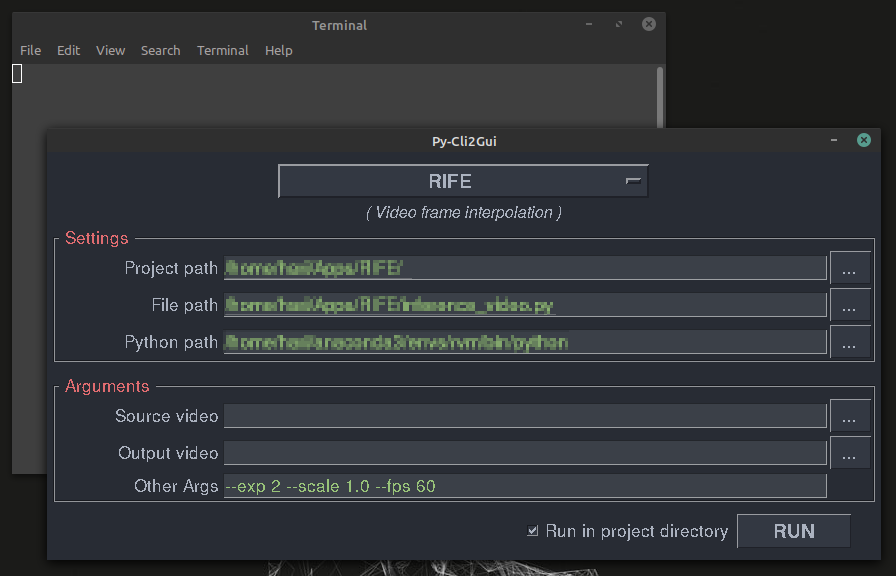
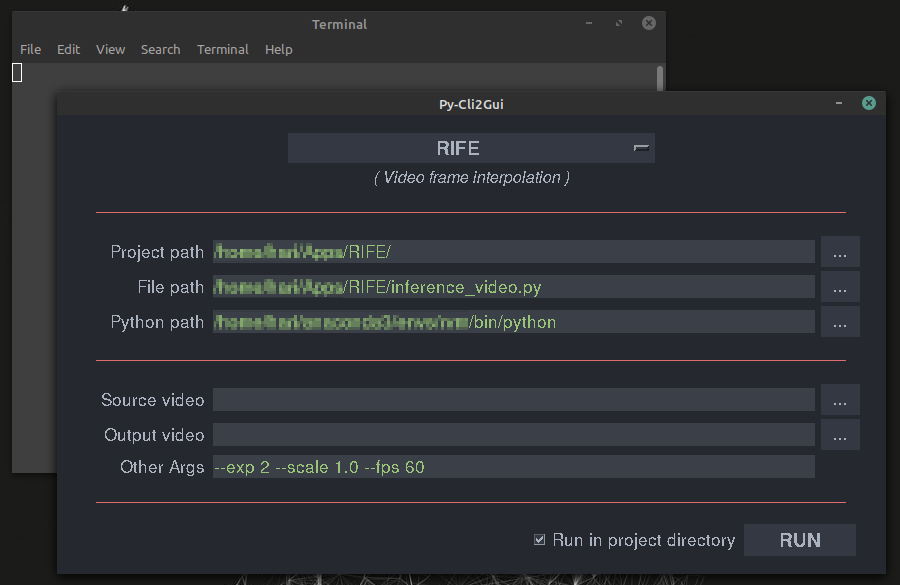
gui update
* removed widget border to get flat look
* added label instead of label frame
* add dark and light theme

diff --git a/source/main.py b/source/main.py
@@ -6,18 +6,31 @@ import tkinter as tk
 from tkinter import filedialog, font as tkFont
 
 
-class Theme:
+class DARK:
+    a1 = "#25292f"
+    a2 = "#333842"
+    a3 = "#3b4048"
+    a4 = "#e79d28"
+    b1 = "#e06c70"
+    b2 = "#abb2bf"
+    b3 = "#469aef"
+    b4 = "#98c379"
+
+class LIGHT:
+    a1 = "#fffefe"
+    a2 = "#c6cddf"
+    a3 = "#ebedf2"
+    a4 = "#b630f4"
+    b1 = "#9199f9"
+    b2 = "#74839a"
+    b3 = "#a4a8de"
+    b4 = "#8f8e95"
+
+
+class Theme(DARK):
     def __init__(self):
-        self.a1 = "#282c34"
-        self.a2 = "#333842"
-        self.a3 = "#3b4048"
-        self.a4 = "#e79d28"
-        self.b1 = "#e06c70"
-        self.b2 = "#abb2bf"
-        self.b3 = "#469aef"
-        self.b4 = "#98c379"
         self.fieldWidth = 60
-        self.labelWidth = 16
+        self.labelWidth = 12
         self.runButtonWidth = 8
         self.fontA = tkFont.Font(family='helvetica', size=13)
         self.fontB = tkFont.Font(family='helvetica', size=14, weight=tkFont.BOLD)
@@ -26,6 +39,7 @@ class Theme:
             'root':{'bg':self.a1},
             'frame':{'bg':self.a1},
             'label':{'bg':self.a1, 'fg':self.b2},
+            'breaker':{'bg':self.a1, 'fg':self.b1},
             'label_frame':{'bg':self.a1, 'fg':self.b1},
             'menu':{'bg':self.a2, 'fg':self.b2, 'activebackground':self.b3},
             'text_field':{'highlightthickness':0, 'bg':self.a3, 'fg':self.b4},
@@ -46,19 +60,22 @@ class App:
         self.runInProjectPath = tk.BooleanVar(value=True)
         self.fields = []
         self.frameA()
+        self.breaker()
         self.frameB()
-        self.dynamicFrame = tk.LabelFrame(self.root, text=" Arguments ", relief="groove")
+        self.breaker()
+        self.dynamicFrame = tk.Frame(self.root)
         self.setCurrentProject()
+        self.breaker()
         self.frameD()
 
     def frameA(self):
-        frame =  tk.Frame(self.root, relief="groove")
+        frame =  tk.Frame(self.root)
         frame.config(**self.theme.settings.get('frame'))
 
         optionMenu = tk.OptionMenu(frame, self.projectName, *self.projects.keys())
-        optionMenu.config(**self.theme.settings.get('menu'))
+        optionMenu.config(**self.theme.settings.get('menu'), borderwidth=0)
         optionMenu.config(width=30)
-        optionMenu["menu"].config(**self.theme.settings.get('menu'))
+        optionMenu["menu"].config(**self.theme.settings.get('menu'), borderwidth=0)
         optionMenu.config(highlightthickness=0)
         optionMenu["font"] = self.theme.fontB
         optionMenu.grid(row=0, column=0)
@@ -68,24 +85,24 @@ class App:
         self.description["font"] = self.theme.fontC
         self.description.grid(row=1, column=0, padx=2, pady=2)
 
-        frame.pack(padx=6, pady=(12,0))
+        frame.pack(padx=24, pady=(18,0))
 
     def frameB(self):
-        frame = tk.LabelFrame(self.root, text=" Settings ", relief="groove")
-        frame.config(**self.theme.settings.get('label_frame'))
+        frame = tk.Frame(self.root)
+        frame.config(**self.theme.settings.get('frame'))
         self.projectPath = self.createInput(frame, index=0, name="Project path", type="DIRECTORY")
         self.filePath = self.createInput(frame, index=1, name="File path", type="FILE")
         self.pythonPath = self.createInput(frame, index=2, name="Python path", type="FILE")
-        frame.pack(fill="y", expand="yes", padx=6, pady=(0,6))
+        frame.pack(fill="y", expand="yes", padx=24, pady=0)
 
     def frameC(self):
-        self.dynamicFrame.config(**self.theme.settings.get('label_frame'))
+        self.dynamicFrame.config(**self.theme.settings.get('frame'))
         for i, item in enumerate(self.currentProject['inputs']):
             self.fields.append(self.createInput(self.dynamicFrame, index=i, **item))
-        self.dynamicFrame.pack(fill="y", expand="yes", padx=6, pady=6)
+        self.dynamicFrame.pack(fill="y", expand="yes", padx=24)
 
     def frameD(self):
-        frame =  tk.Frame(self.root, relief="groove")
+        frame =  tk.Frame(self.root)
         frame.config(**self.theme.settings.get('frame'))
 
         checkButton = tk.Checkbutton(frame, variable=self.runInProjectPath)
@@ -93,14 +110,18 @@ class App:
         checkButton.config(**self.theme.settings.get('check_button'))
         checkButton.grid(row=0, column=0, sticky='E')
 
-        runButton = tk.Button(frame, width=self.theme.runButtonWidth)
+        runButton = tk.Button(frame, width=self.theme.runButtonWidth, borderwidth=0)
         runButton.config(**self.theme.settings.get('run_button'))
         runButton["text"] = 'RUN'
         runButton["command"] = self.runCommand
         runButton["font"] = self.theme.fontB
         runButton.grid(row=0, column=1, padx=6, sticky='E')
 
-        frame.pack(padx=24, pady=(6,12), side=tk.RIGHT)
+        frame.pack(padx=24, pady=(0,18), side=tk.RIGHT)
+
+    def breaker(self):
+        breaker = tk.Label(self.root, text="_____"*15, **theme.settings.get("breaker"))
+        breaker.pack(padx=0, pady=(0,18))
 
     def removeFrame(self):
         for widget in self.dynamicFrame.winfo_children():
@@ -183,35 +204,36 @@ class App:
         text = tk.StringVar()
         if isinstance(value, (str, int, float)):
             text.set(value)
+        name = name[:12] + (name[12:] and '..')
         label = tk.Label(frame, text=name, width=self.theme.labelWidth, anchor="e")
         label.config(**self.theme.settings.get('label'))
         label.grid(row=index, column=0, padx=2, pady=2, sticky="E")
         if type == "FILE":
-            button = tk.Button(frame, anchor="w")
+            button = tk.Button(frame, anchor="n", borderwidth=0)
             button["text"] = "..."
             button["command"] = lambda: text.set(filedialog.askopenfilename(title="Select file"))
             button.config(**self.theme.settings.get('button_1'))
             button.grid(row=index, column=2, padx=2, pady=2)
         elif type == "DIRECTORY":
-            button = tk.Button(frame, anchor="w")
+            button = tk.Button(frame, anchor="n", borderwidth=0)
             button["text"] = "..."
             button["command"] = lambda: text.set(filedialog.askdirectory(title="Select directory"))
             button.config(**self.theme.settings.get('button_1'))
             button.grid(row=index, column=2, padx=2, pady=2)
         elif type == "LIST":
             menu = tk.OptionMenu(frame, text, *value)
-            menu.config(**self.theme.settings.get('menu'))
-            menu["menu"].config(**self.theme.settings.get('menu'))
+            menu.config(**self.theme.settings.get('menu'), borderwidth=0)
+            menu["menu"].config(**self.theme.settings.get('menu'), borderwidth=0)
             menu.config(highlightthickness=0)
-            menu.grid(row=index, column=1, padx=(0,2), pady=2, sticky="W")
+            menu.grid(row=index, column=1, padx=2, pady=2, sticky="W")
             text.set(value[0])
         elif type == "STRING":
             pass
         if type != "LIST":
-            field = tk.Entry(frame, textvariable=text, width=self.theme.fieldWidth)
+            field = tk.Entry(frame, textvariable=text, width=self.theme.fieldWidth, borderwidth=0)
             field.config(**self.theme.settings.get('text_field'))
             field.bind('<Button-3>', self.rClickMenu, add='')
-            field.grid(row=index, column=1, padx=(0,1), pady=2)
+            field.grid(row=index, column=1, padx=4, pady=2)
         return text
 
 
@@ -222,7 +244,5 @@ if __name__ == "__main__":
     root.config(**theme.settings.get('root'))
     root.option_add("*font", theme.fontA)
     root.resizable(width=False, height=False)
-    #root.rowconfigure(0, weight=1)
-    #root.columnconfigure(0, weight=1)
     app = App(root, theme)
     root.mainloop()
